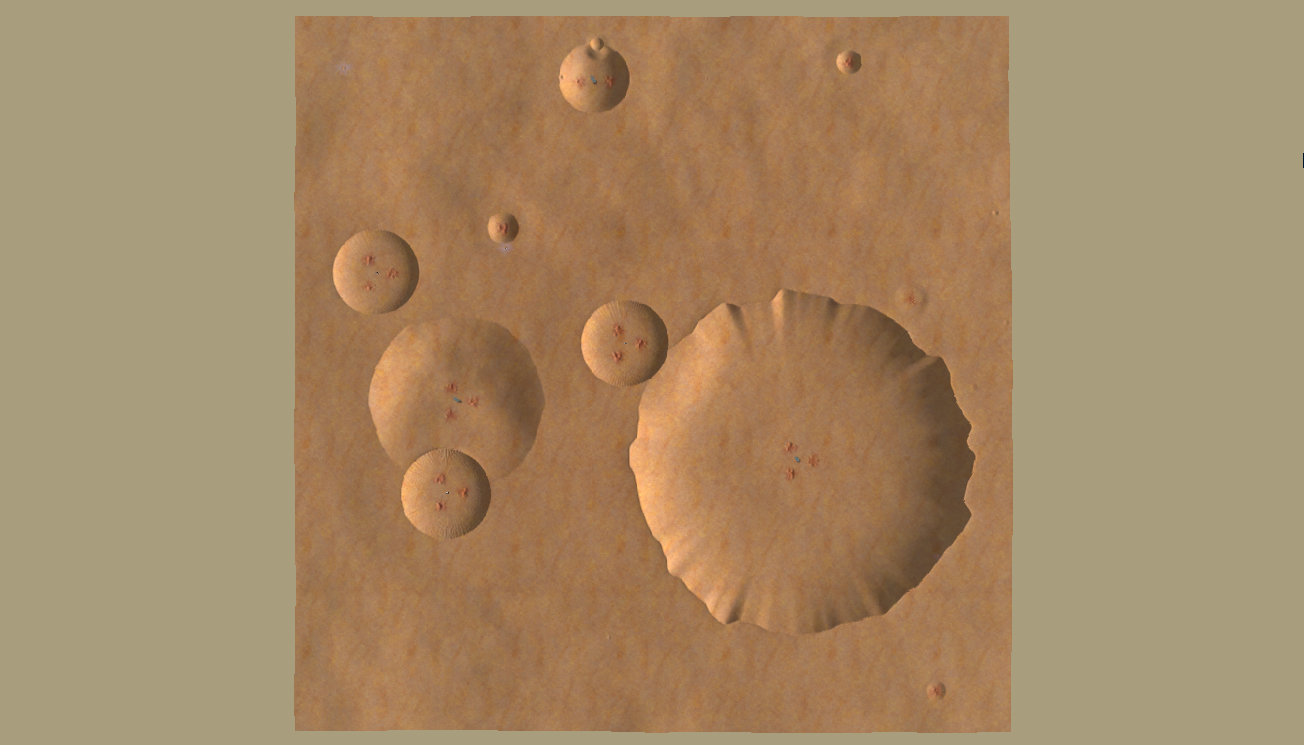
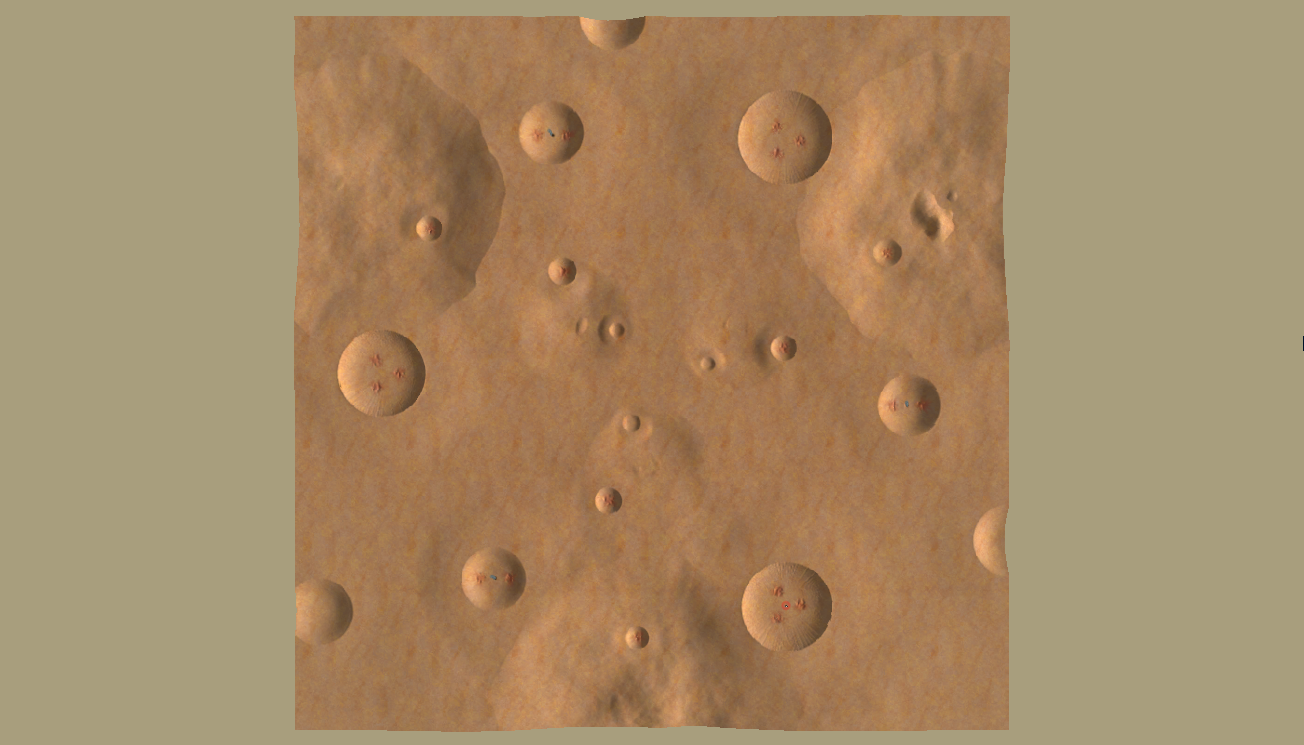
update readme

diff --git a/README.md b/README.md
@@ -4,8 +4,11 @@
 ### Two Allyteams (180-degree rotational symmetry)
 ![screen2](screen2.png)
 
-### Four Allyteams (two axis reflectional symmetry)
+### Three Allyteams (120-degree rotational symmetry)
+![screen3](screen3.png)
+
+### Four Allyteams (double reflectional symmetry)
 ![screen2](screen4.png)
 
-### Three Allyteams (no symmetry)
-![screen2](screen3.png)
+### Five Allyteams (72-degree rotational symmetry)
+![screen5](screen5.png)
